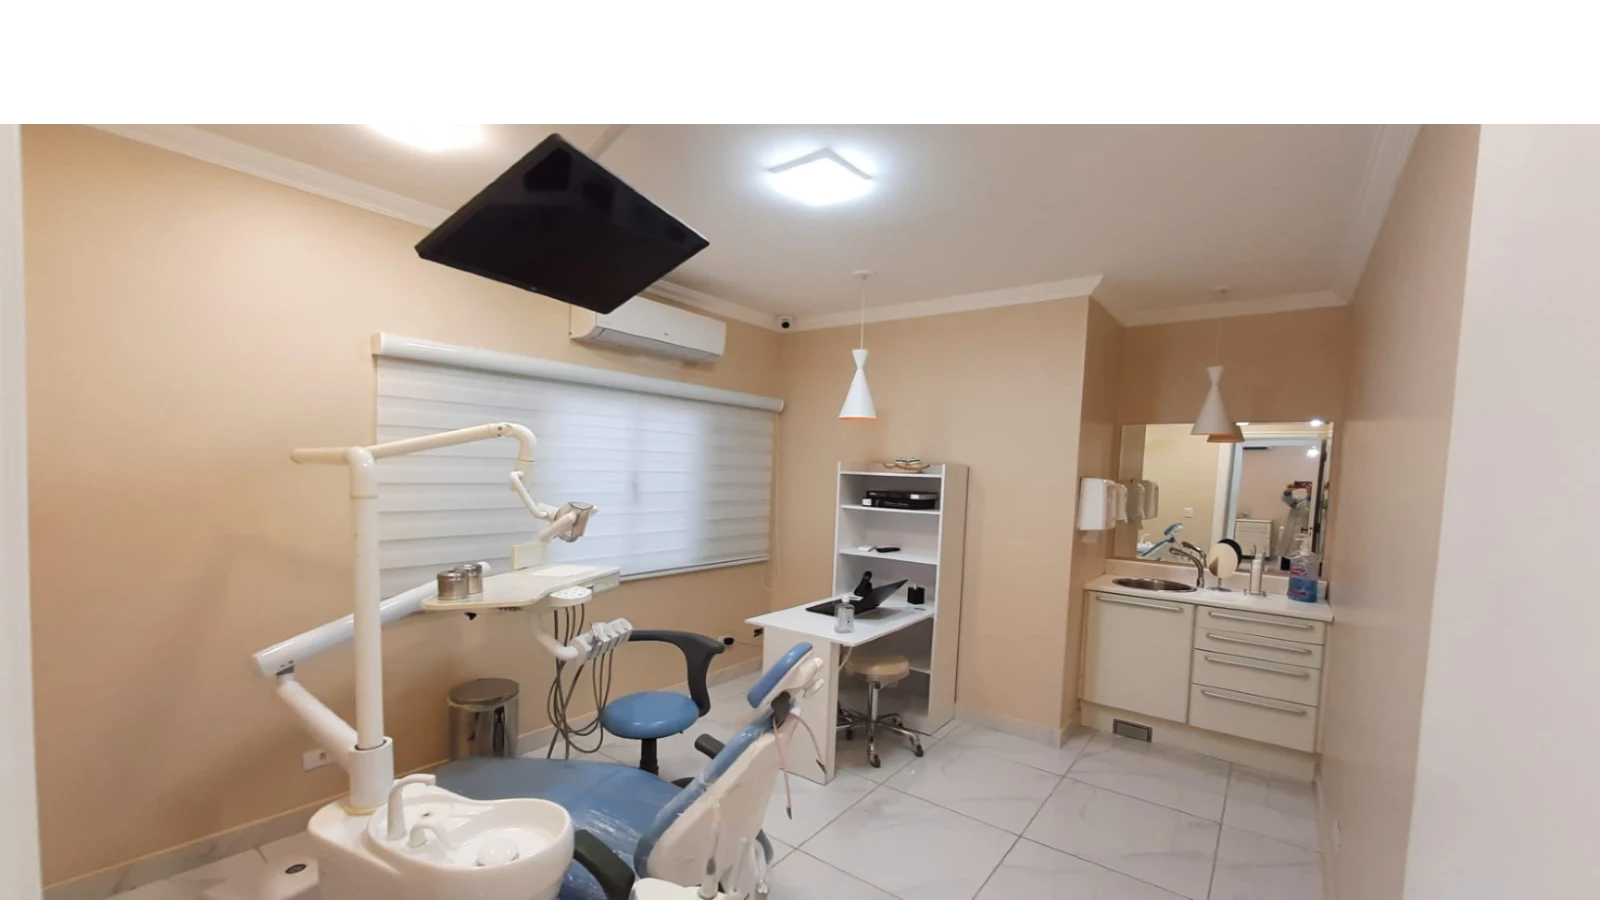
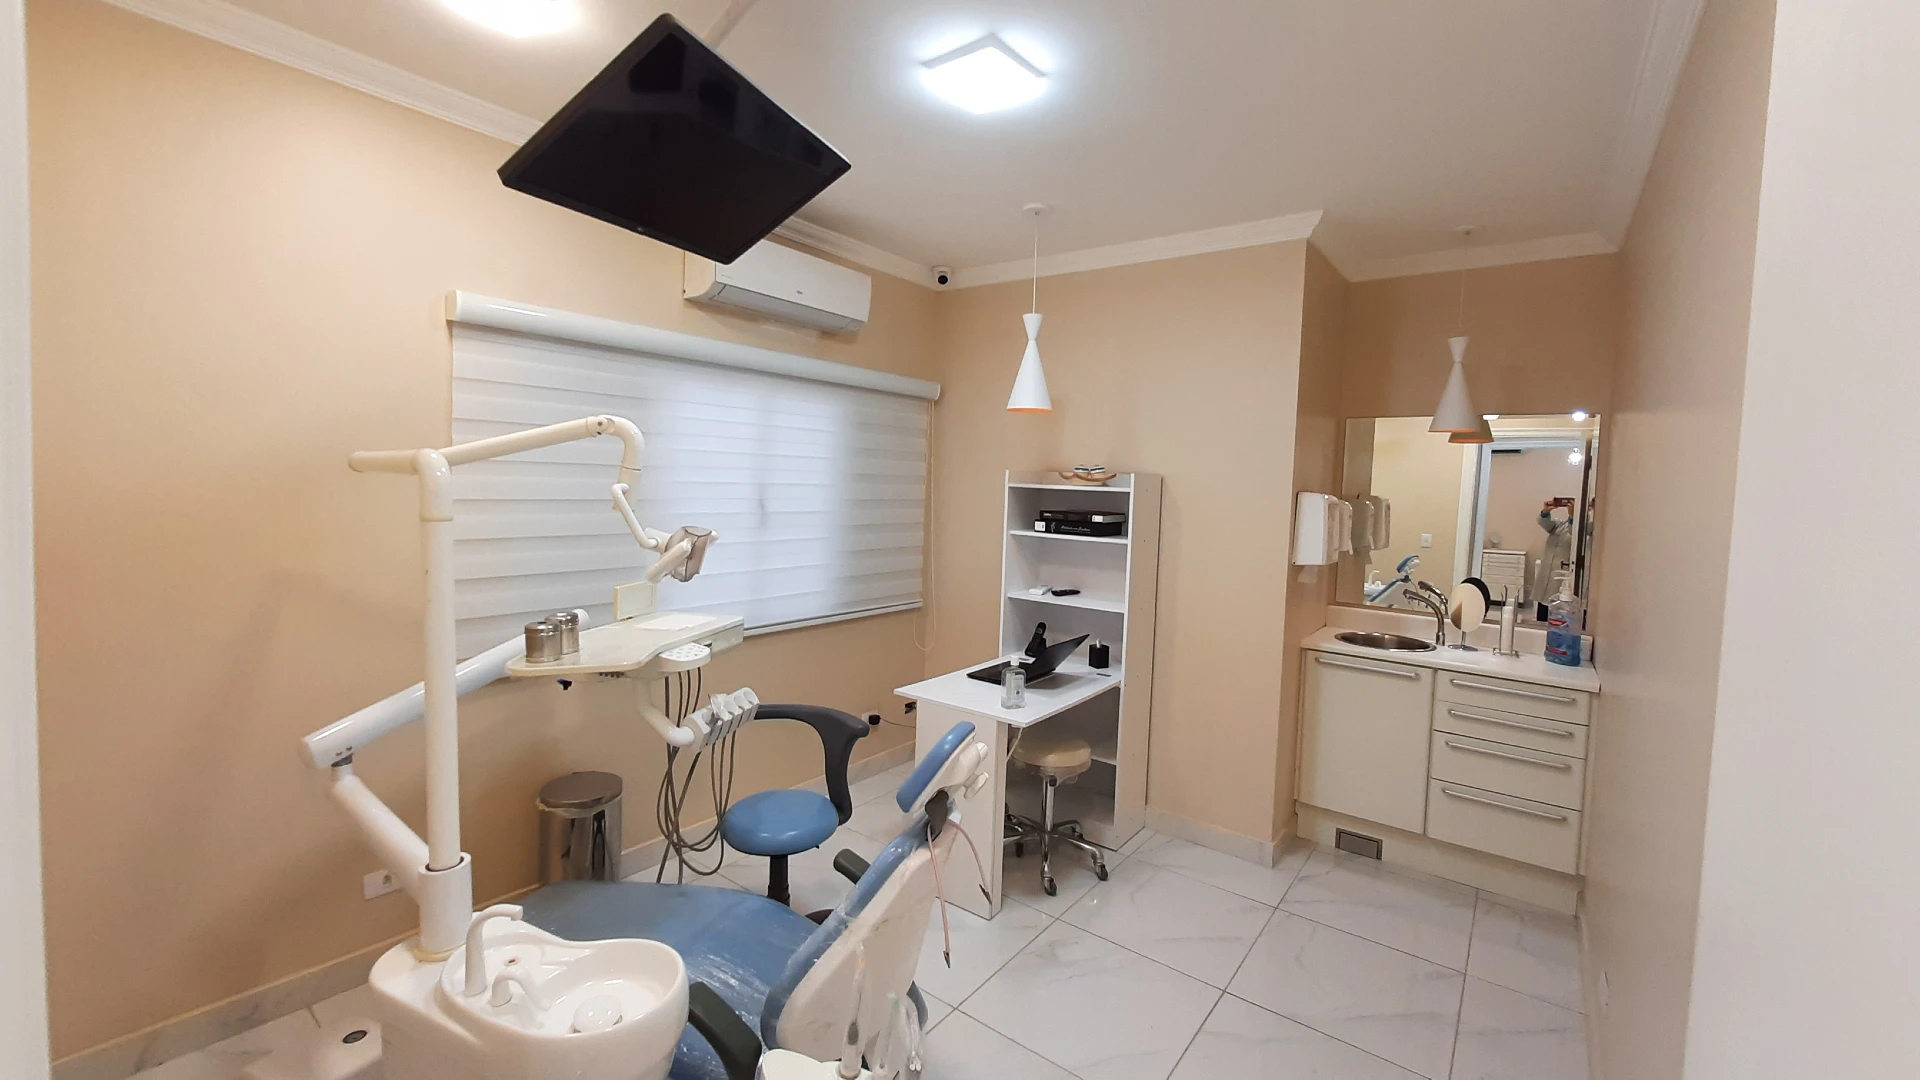
alteçãoes

diff --git a/index.html b/index.html
@@ -53,10 +53,10 @@
 <body>
 
   <header>
-    <nav class="navbar navbar-expand-lg navbar-light bg-white  fixed-top">
+    <nav class="navbar navbar-expand-lg p-0 navbar-light bg-white fixed-top">
 
       <!-- logo da Cotidente -->
-      <img src="src/img/logo-cotidente1.png" alt="logo cotidente" class="logo m-1">
+      <img src="src/img/LOGO Cotidente_Dra. Gesiely Espalva.webp" alt="logo cotidente" class="logo  m-1">
 
       <!-- nav bar burger -->
       <button class="navbar-toggler" type="button" data-toggle="collapse" data-target="#navbarNav"
@@ -65,8 +65,8 @@
       </button>
 
       <!-- links da nav -->
-      <div class="collapse navbar-collapse justify-content-center" id="navbarNav">
-        <ul class="navbar-nav">
+      <div class="collapse navbar-collapse justify-content-center " id="navbarNav">
+        <ul class="navbar-nav ">
 
           <!-- Agendar horário -->
           <li class="nav-item text-center">
@@ -107,21 +107,39 @@
         <button type="button" data-bs-target="#carouselExampleIndicators" data-bs-slide-to="2"
           aria-label="Slide 3"></button>
         <button type="button" data-bs-target="#carouselExampleIndicators" data-bs-slide-to="3"
-          aria-label="Slide 4"></button>
+          aria-label="Slide 4">
+        </button> <button type="button" data-bs-target="#carouselExampleIndicators" data-bs-slide-to="4"
+          aria-label="Slide 5"></button>
+        </button> <button type="button" data-bs-target="#carouselExampleIndicators" data-bs-slide-to="5"
+        aria-label="Slide 6"></button>
+      </button> <button type="button" data-bs-target="#carouselExampleIndicators" data-bs-slide-to="6"
+      aria-label="Slide 7"></button>
       </div>
       <div class="carousel-inner">
         <div class="carousel-item active" data-bs-interval="3000">
-          <img src="src/img/recepcao.webp" class="d-block w-100 imagem-carrosel" alt="receção consultório Cotidente">
+          <img src="src/img/home.webp" class="d-block w-100 imagem-carrosel " alt="receção consultório Cotidente">
         </div>
         <div class="carousel-item" data-bs-interval="3000">
-          <img src="src/img/carrosel1.webp" class="d-block w-100 imagem-carrosel" alt="sala da Cotidente">
+          <img src="src/img/carrosel1.webp" class="d-block w-100 imagem-carrosel " alt="sala da Cotidente">
         </div>
         <div class="carousel-item" data-bs-interval="3000">
-          <img src="src/img/atendimento.webp" class="d-block w-100 imagem-carrosel imagem-carrosel-sala1"
+          <img src="src/img/sala.webp" class="d-block w-100 imagem-carrosel  imagem-carrosel-sala1"
             alt="consultório dentário da Cotidente">
         </div>
-        <div class="carousel-item" data-bs-interval="000">
-          <img src="src/img/salaDeEspera.webp" class="d-block w-100 imagem-carrosel"
+        <div class="carousel-item" data-bs-interval="3000">
+          <img src="src/img/sala2.webp" class="d-block w-100 imagem-carrosel "
+            alt="sala de espera da Cotidente-cotia ">
+        </div> <div class="carousel-item" data-bs-interval="3000">
+          <img src="src/img/consultorio2.webp" class="d-block w-100 imagem-carrosel "
+            alt="sala de espera da Cotidente-cotia ">
+        </div>   
+       </div> <div class="carousel-item" data-bs-interval="3000">
+          <img src="src/img/salaDeEspera.webp" class="d-block w-100 imagem-carrosel "
+            alt="sala de espera da Cotidente-cotia ">
+        </div>   
+       </div> 
+       <div class="carousel-item" data-bs-interval="3000">
+          <img src="src/img/consultorio3.webp" class="d-block w-100 imagem-carrosel "
             alt="sala de espera da Cotidente-cotia ">
         </div>
       </div>
@@ -346,7 +364,7 @@
     <section class="container-fluid pt-5 pb-5 text-right cor-equipe" id="quemsomos">
       <div class="text-center container-md img-equipe">
         <div class="card ">
-          <img class="img-fluid " alt="equipe" src="src/img/equipe.jpg">
+          <img class="img-fluid " alt="equipe" src="src/img/equipe.webp">
           <div class="card-body">
             <h4 class="card-title text-center">Cotidente</h4>
             <p class="card-text text-center">Na Cotidente você encontra os melhores, profissionais, produtos, e

diff --git a/src/style/estilo.css b/src/style/estilo.css
@@ -32,10 +32,12 @@
 
 /* fontes */
 *{
+    
      font-family: var(--fonte-padrao);
      
 }
 body{
+    margin: 0;
     background-color: #F5F5F5;
 }
 .fonte-titulo{
@@ -102,11 +104,13 @@ h2,h3 {
 }
     
 .logo{
-    width: 160px;
-    height: 70px;
+    width: 130px;
    
+    border-radius: 20px;
+    margin: 0;
     
 }
+
 .icons-link{
     width: 24px;
     height: 24px;
@@ -115,7 +119,10 @@ h2,h3 {
 
 /* corrosel */
 .imagem-carrosel{
-    object-fit: fill;
+    background-image: linear-gradient(to bottom ,#FFFF , #F5F5F5 );
+    margin-top: 50px;
+    object-position: 50% 10px;
+    object-fit: contain;
     max-height: 600px;
     
 }
